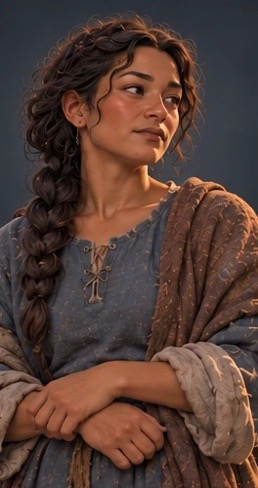
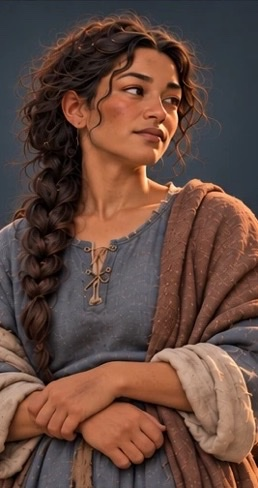
Repaint the townsfolk with new paintings
Use these images for townsfolk.

diff --git a/Sources/Ezerian/ArtPainted.swift b/Sources/Ezerian/ArtPainted.swift
@@ -197,7 +197,7 @@ enum PaintedFolk {
     static let townFolk: [Painted] = [
         Painted(role: "town", painting: "town-0", look: look(.human, female: false, skin: 0xE8A88A, hair: 0x6A5A4A, tunic: 0x7A4A2E,
                                                             legs: 0x4A3A2A, longHair: false, beard: true), prop: .none, apron: linen),
-        Painted(role: "town", painting: "town-1", look: look(.human, female: false, skin: 0x5A3A26, hair: 0x14100C, tunic: 0x7A7468,
+        Painted(role: "town", painting: "town-1", look: look(.human, female: false, skin: 0x5A3A26, hair: 0x14100C, tunic: 0xC8BA9E,
                                                             legs: 0x4A4038, longHair: false), prop: .none),
         Painted(role: "town", painting: "town-2", look: look(.human, female: false, skin: 0xC8946A, hair: 0x2A1E16, tunic: 0x4A5A7A,
                                                             legs: 0x4A3A2A, longHair: false, beard: true), prop: .none),
